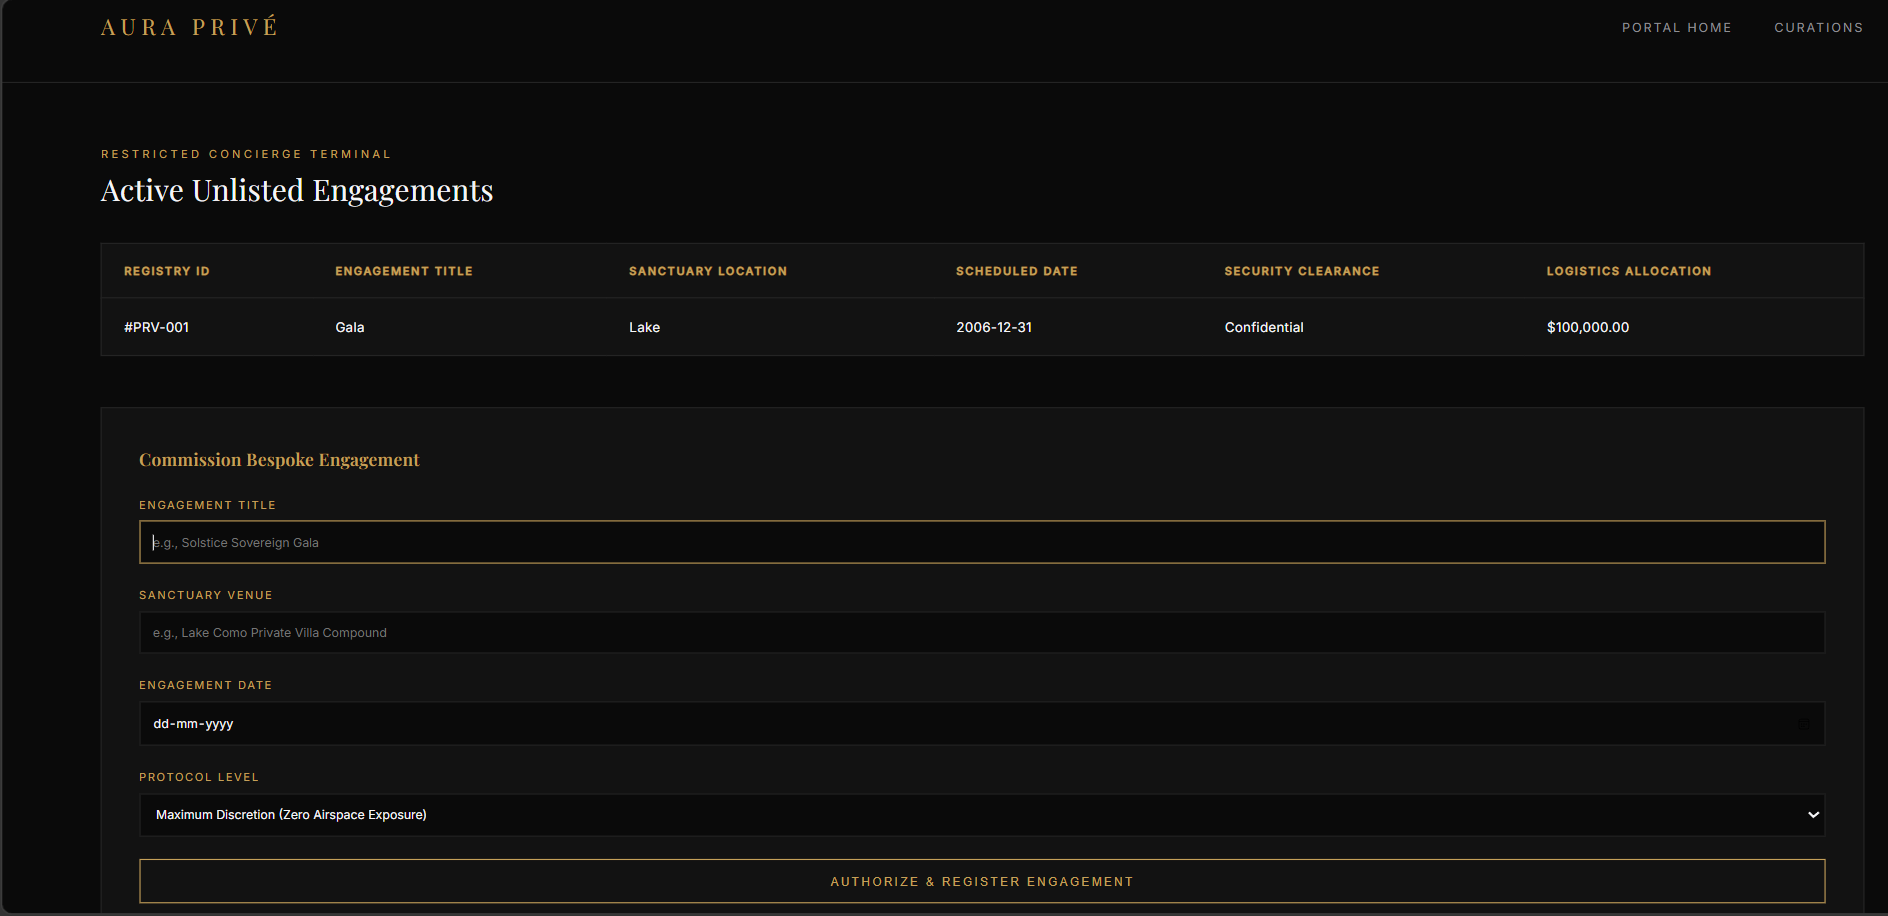
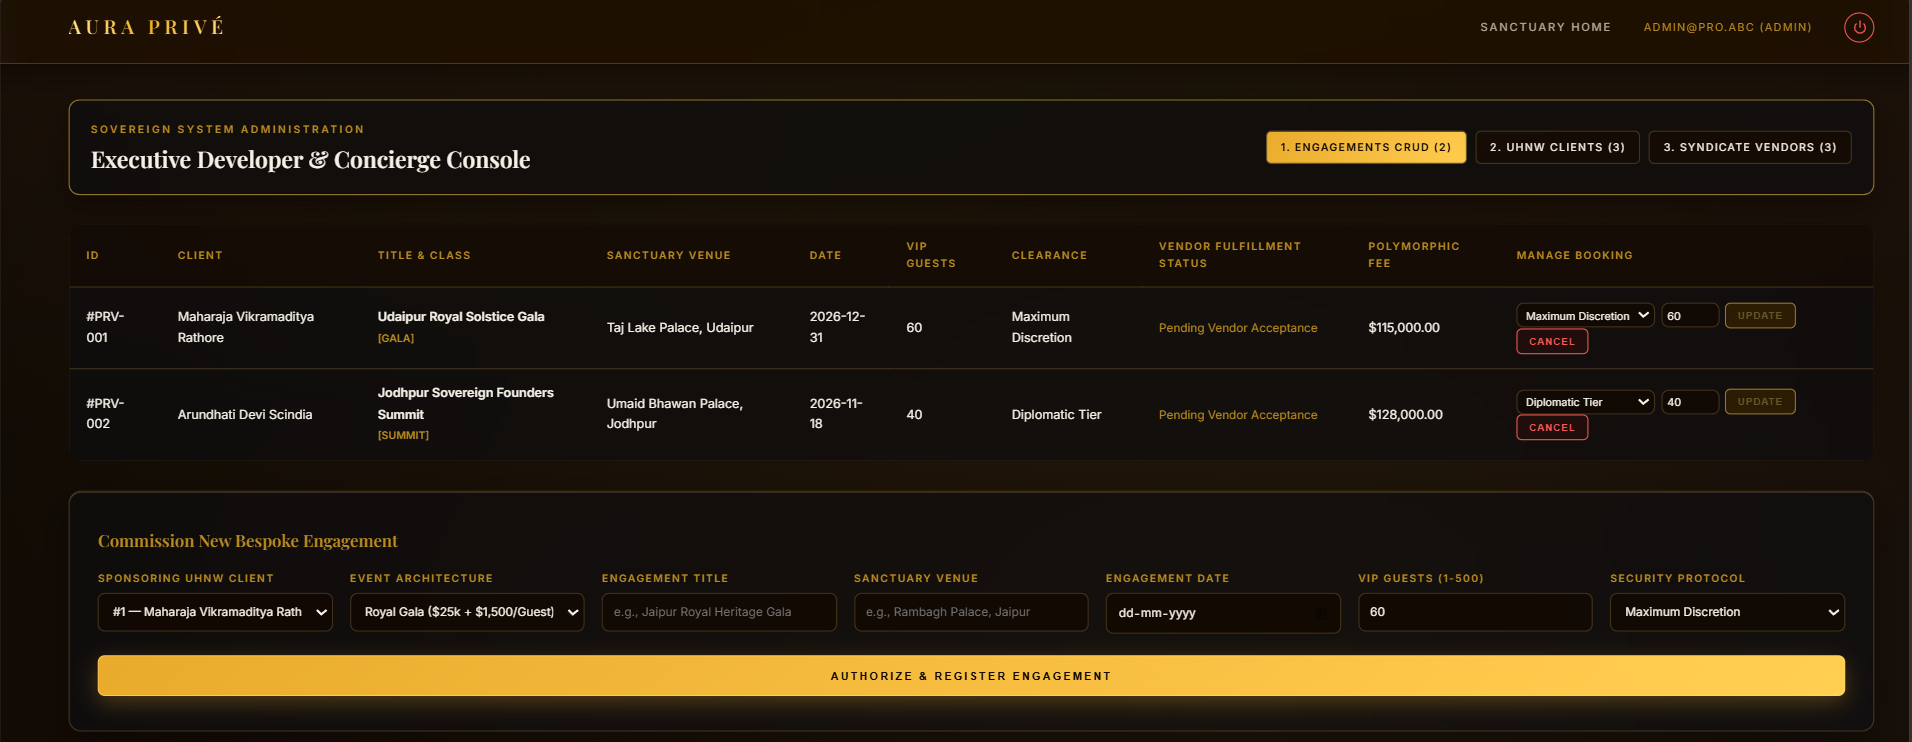
Add new images of running application and update README.md

diff --git a/README.md b/README.md
@@ -58,12 +58,15 @@ AuraPrive-EventManagement/
 │
 ├── database/
 │   └── javapro.sql                              # Relational MariaDB schema & Indian seed records
-│
 ├── docs/
-│   ├── landing.png                              # Client portal preview
-│   ├── dashboard.png                            # Concierge terminal preview
-│   └── database_check.png                       # Terminal JDBC database verification view
-│
+│   ├── account_create.png                      # Unified login & account creation gate preview
+│   ├── client_view.png                         # Private client sanctuary & live telemetry preview
+│   ├── dashboard.png                           # Concierge terminal preview
+│   ├── database_check.png                      # Terminal JDBC database verification view
+│   ├── landing.png                             # Client-facing bespoke landing portal preview
+│   ├── terminal_run_test.png                   # Standalone CLI rubric verifier output
+│   └── vendor_view.png                         # Syndicate vendor logistics dispatch preview
+|
 ├── lib/
 │   └── mysql-connector-j-8.3.0.jar              # MySQL/MariaDB JDBC connector library
 │
